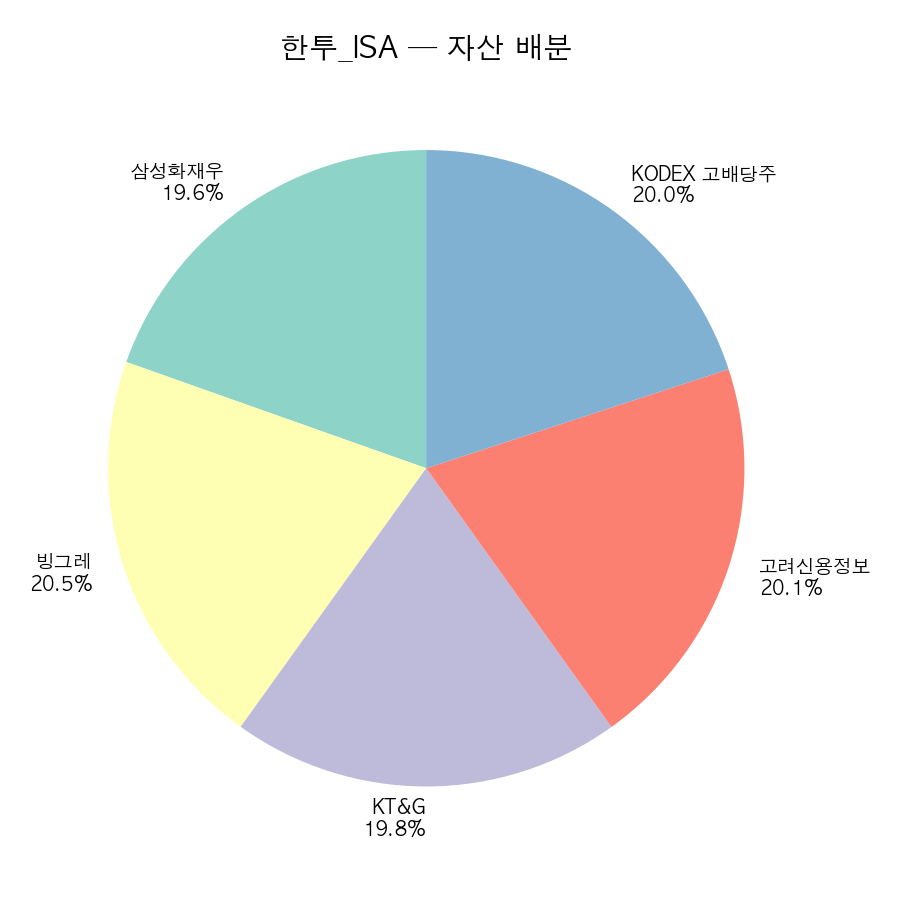
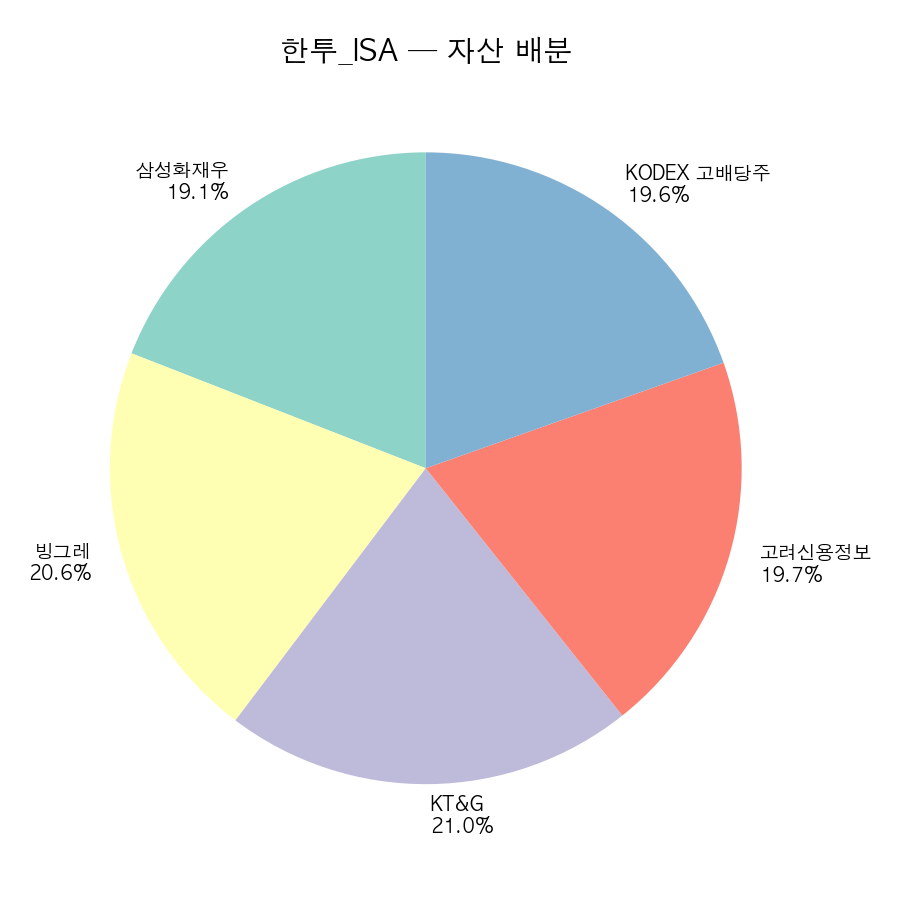
섹션별 주간 리포트 (자동 생성)

diff --git a/_posts/2026-10-16-etf-weekly-week28.md b/_posts/2026-10-16-etf-weekly-week28.md
@@ -1,0 +1,50 @@
+---
+layout: post
+title: "Week 28 — 부모님 연금 ETF 주간 리포트"
+date: 2026-10-16
+categories: [investing, etf]
+tags: [weekly]
+---
+
+> 부모님 연금저축 ETF 실험 — 28주차 기록.
+
+---
+
+## 28주차 성과
+
+### 엄마_연금
+
+| 종목 | 수량 | 평단가 | 종가 | 평가액 | 수익률 |
+|------|------|--------|------|--------|--------|
+| ACE KRX금현물 | 47주 | ₩30,513 | ₩25,000 | ₩1,175,000 | -18.1% |
+| RISE 200 | 12주 | ₩86,453 | ₩89,495 | ₩1,073,940 | +3.5% |
+| KODEX 미국S&P500 | 43주 | ₩23,192 | ₩23,320 | ₩1,002,760 | +0.6% |
+| TIGER Fn신재생에너지 | 31주 | ₩27,199 | ₩20,670 | ₩640,770 | -24.0% |
+| KODEX 인도Nifty50 | 44주 | ₩12,372 | ₩10,860 | ₩477,840 | -12.2% |
+| KODEX 고배당주 | 17주 | ₩17,008 | ₩17,005 | ₩289,085 | -0.0% |
+
+**투자 ₩5,145,472 → 평가 ₩4,659,395 | -486,077원 (-9.4%)**
+
+예수금: ₩1,644,450
+---
+
+### 아빠_연금
+
+| 종목 | 수량 | 평단가 | 종가 | 평가액 | 수익률 |
+|------|------|--------|------|--------|--------|
+| ACE KRX금현물 | 47주 | ₩30,514 | ₩25,000 | ₩1,175,000 | -18.1% |
+| RISE 200 | 12주 | ₩86,489 | ₩89,495 | ₩1,073,940 | +3.5% |
+| KODEX 미국S&P500 | 43주 | ₩23,191 | ₩23,320 | ₩1,002,760 | +0.6% |
+| TIGER Fn신재생에너지 | 31주 | ₩27,193 | ₩20,670 | ₩640,770 | -24.0% |
+| KODEX 인도Nifty50 | 44주 | ₩12,379 | ₩10,860 | ₩477,840 | -12.3% |
+| TIGER 미국배당다우존스 | 21주 | ₩14,112 | ₩14,410 | ₩302,610 | +2.1% |
+| PLUS 고배당주 | 1주 | ₩25,370 | ₩23,245 | ₩23,245 | -8.4% |
+
+**투자 ₩5,178,612 → 평가 ₩4,696,165 | -482,447원 (-9.3%)**
+
+예수금: ₩1,021,369
+
+
+---
+
+*데이터: 한국투자증권 KIS Open API / 2026-10-16 장 마감 기준*

diff --git a/_posts/2026-10-16-dividend-weekly-week28.md b/_posts/2026-10-16-dividend-weekly-week28.md
@@ -1,0 +1,32 @@
+---
+layout: post
+title: "Week 28 — ISA 배당 포트 주간 리포트"
+date: 2026-10-16
+categories: [investing, dividend]
+tags: [weekly]
+---
+
+> ISA 배당 포트폴리오 — 28주차 기록.
+
+---
+
+## 28주차 성과
+
+### 한투_ISA
+
+| 종목 | 수량 | 평단가 | 종가 | 평가액 | 수익률 |
+|------|------|--------|------|--------|--------|
+| KT&G | 11주 | ₩168,800 | ₩190,500 | ₩2,095,500 | +12.8% |
+| 빙그레 | 23주 | ₩73,386 | ₩89,600 | ₩2,060,800 | +22.1% |
+| 고려신용정보 | 218주 | ₩10,004 | ₩9,040 | ₩1,970,720 | -9.6% |
+| KODEX 고배당주 | 115주 | ₩17,942 | ₩17,005 | ₩1,955,575 | -5.2% |
+| 삼성화재우 | 5주 | ₩378,520 | ₩381,000 | ₩1,905,000 | +0.7% |
+
+**투자 ₩9,681,578 → 평가 ₩9,987,595 | +306,017원 (+3.2%)**
+
+예수금: ₩143,587
+
+
+---
+
+*데이터: 한국투자증권 KIS Open API / 2026-10-16 장 마감 기준*
